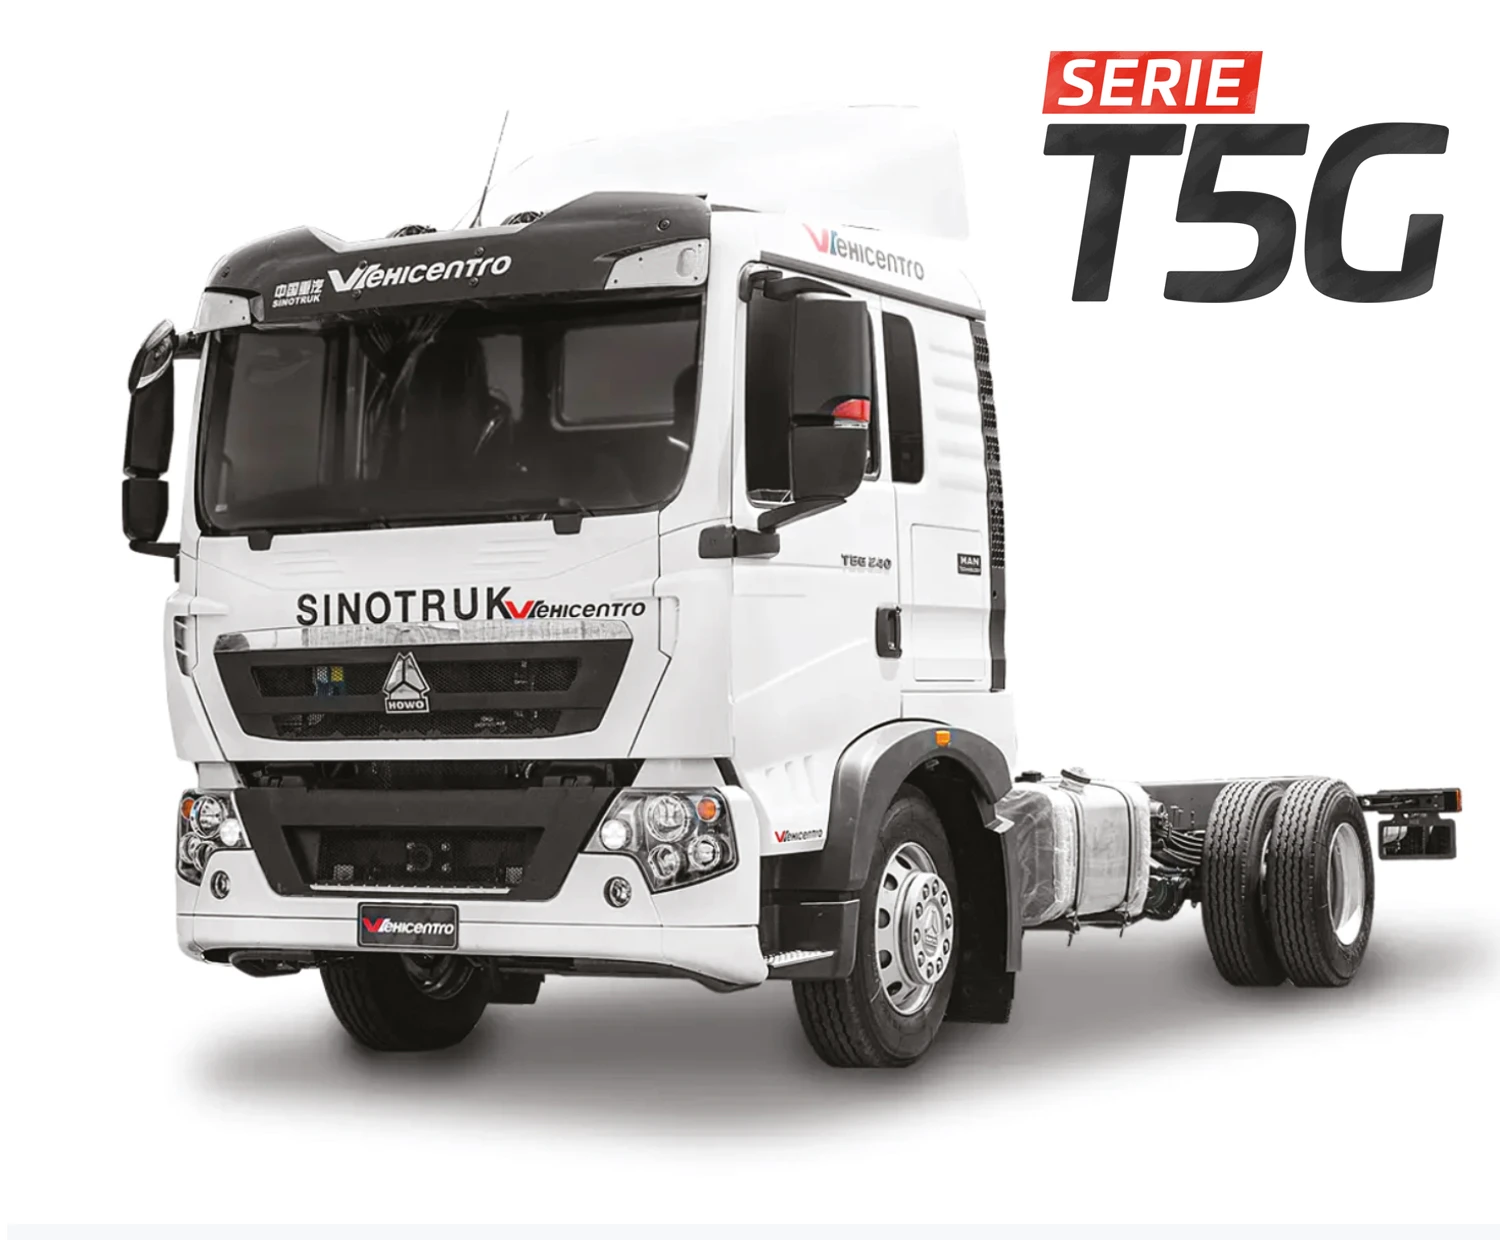
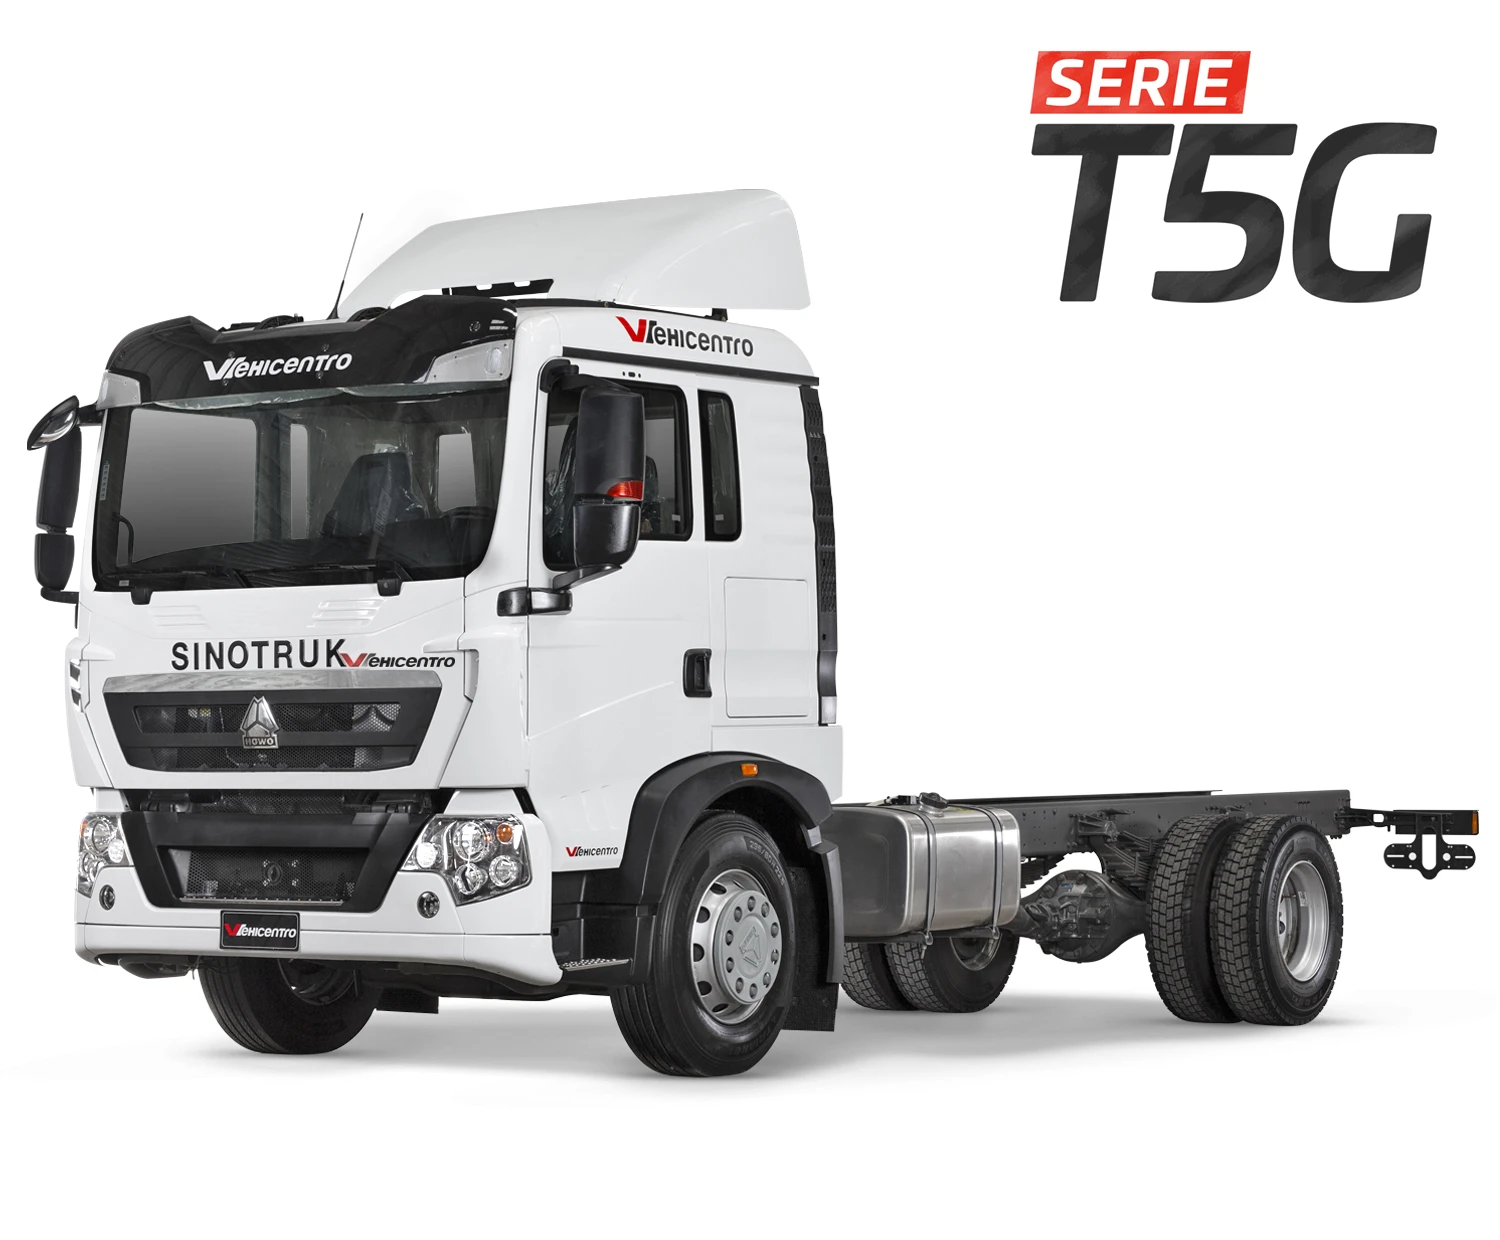
nuevas img

diff --git a/src/pages/Camion.js b/src/pages/Camion.js
@@ -85,7 +85,7 @@ function Camion() {
             console.log('10 Toneladas')
             images = [
                 "../images/10-toneladas/camion-blanco-sinotruk-de-10-toneladas-ecuador.webp",
-                "../images/10-toneladas/camion-gris-sinotruk-de-10-toneladas-ecuadorn-slide.webp"
+                "../images/10-toneladas/camion-blanco-sinotruk-de-10-toneladas-ecuador-de-frente.webp"
             ];
             textoMotor1 = "240 HP"
             textoMotor2 = "Freno a las válvulas"
@@ -191,7 +191,7 @@ function Camion() {
             bdc = "https://bdc.vehicentro.com:9443/ords/ws_vehicentro/api/conexiones/wordpress/WEB12TT5G1167"
             images = [
                 "../images/12-toneladas/camion-blanco-sinotruk-de-12-toneladas-ecuador.webp",
-                "../images/12-toneladas/camion-gris-sinotruk-de-12-toneladas-ecuador-slide.webp"
+                "../images/12-toneladas/camion-blanco-sinotruk-de-12-toneladas-ecuador-de-frente.webp"
             ];
             textoMotor1 = "240 HP"
             textoMotor2 = "Modelo T5G-1167"
@@ -244,7 +244,7 @@ function Camion() {
             bdc = "https://bdc.vehicentro.com:9443/ords/ws_vehicentro/api/conexiones/wordpress/WEB13T1167"
             images = [
                 "../images/13-toneladas/camion-blanco-sinotruk-de-13-toneladas-ecuador.webp",
-                "../images/13-toneladas/camion-blanco-sinotruk-de-13-toneladas-de-frente-ecuador.webp"
+                "../images/13-toneladas/camion-blanco-sinotruk-de-13-toneladas-ecuador-de-frente.webp"
             ];
             textoMotor1 = "280 HP"
             textoMotor2 = "Modelo T5G-1167"
@@ -1032,7 +1032,7 @@ function Camion() {
         </div>
 
 
-        <div className="boxesIni posRelative">
+        <div className="boxesIni posRelative centrado">
             <div className="centrado">
                 <img src={imagen} width="1400" height="1000" className="slideMain" alt="Punto de Venta" />
             </div>
